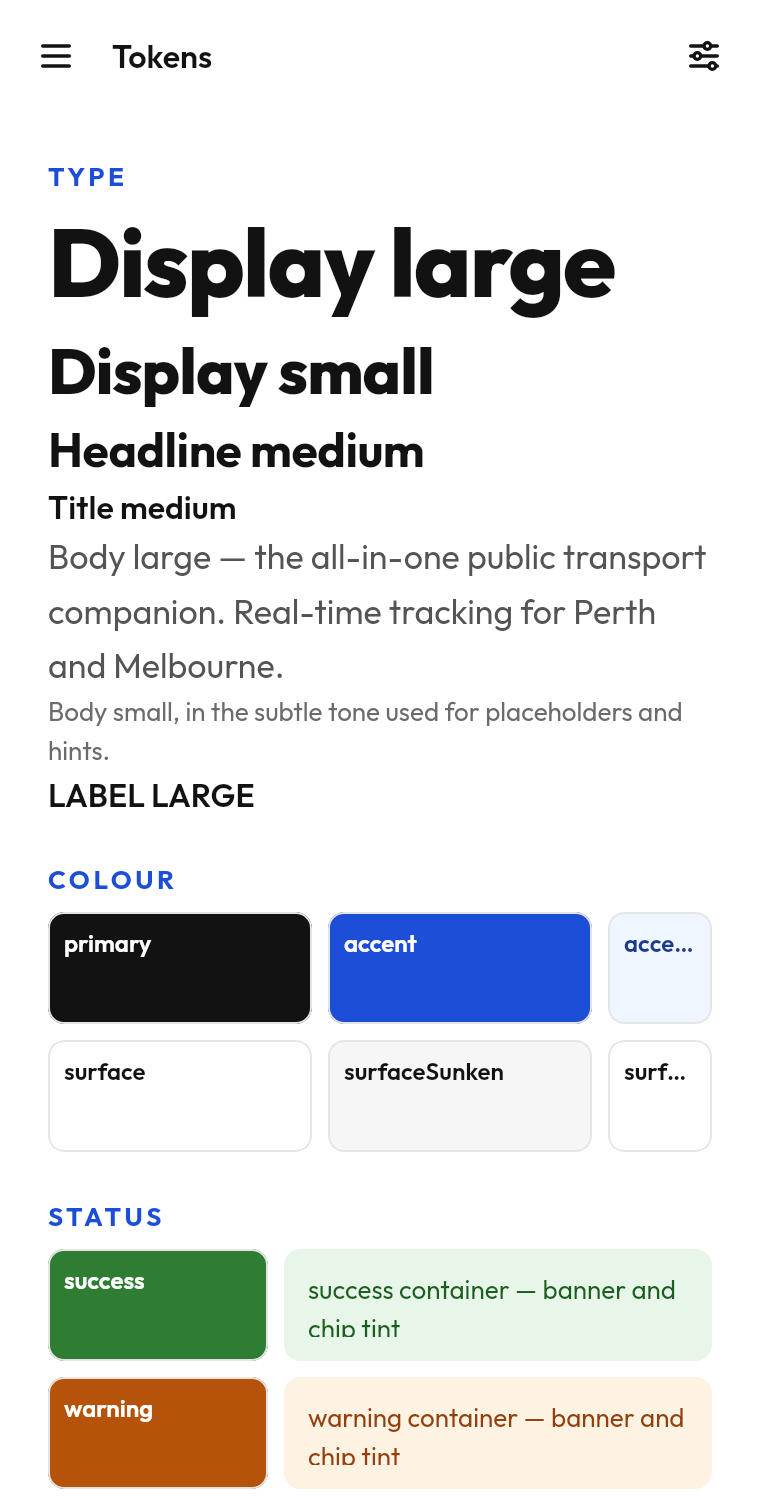
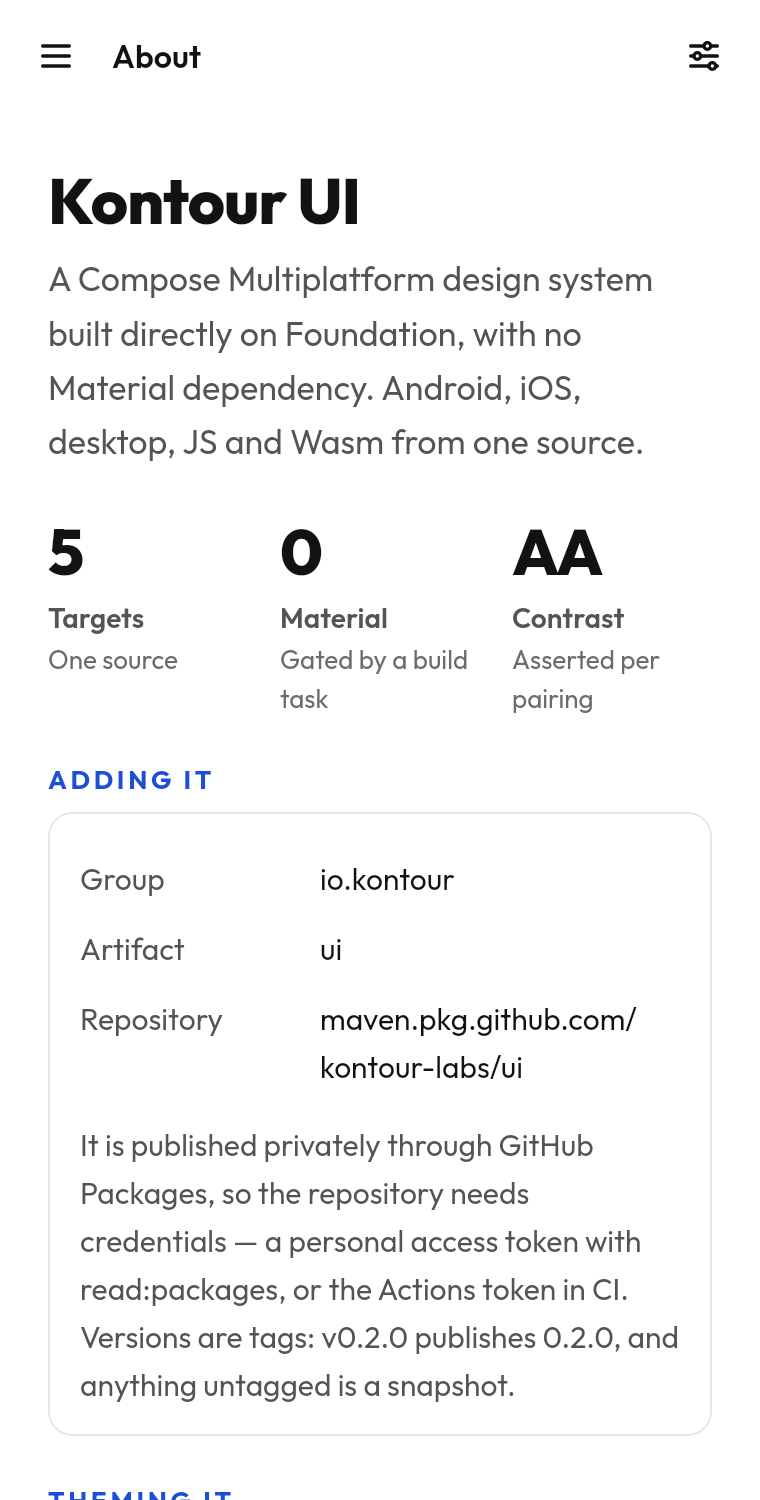
Give the gallery a front door
The catalog opened on a page of colour swatches. That tells someone who has just
been handed the library nothing about what it is, how to add it, or where the
writing lives — a gallery with no front door reads as a test fixture, and for a
while that is all this was.

**About** is now the first page: what the library is, three numbers, the
publishing coordinates and what they need, a theming primer, and the paths to
every documentation page. Paths rather than links, because three of the five
targets have no browser to hand off to and a link that does nothing on iOS is
worse than a path someone can find in the repository.

It is written entirely with shipped components — `Card`, `Stat`, `KeyValueList`,
`Surface`, `Text`, and the `Section` heading every other showcase uses — with no
page-local layout beyond a `Column`. That is the point as much as the content
is: it is the one page whose content is prose rather than specimens, so it is
the one place the system has to work as a *document* rather than as a form.

Two things fell out of writing it. **There is no component for a code block**,
which is why the install section is a `KeyValueList` of coordinates and a
sentence rather than the snippet it wanted to be — a real gap, recorded here
rather than papered over with a page-local `Text` in a monospace style. And the
first draft declared its own `Section`, which the compiler caught as an
ambiguity against the shared one; a page-local copy would have drifted from the
[…]

diff --git a/ui-catalog/src/commonMain/kotlin/io/kontour/ui/catalog/AboutShowcase.kt b/ui-catalog/src/commonMain/kotlin/io/kontour/ui/catalog/AboutShowcase.kt
@@ -1,0 +1,195 @@
+package io.kontour.ui.catalog
+
+import androidx.compose.foundation.layout.Arrangement
+import androidx.compose.foundation.layout.Column
+import androidx.compose.foundation.layout.Row
+import androidx.compose.foundation.layout.fillMaxWidth
+import androidx.compose.foundation.layout.padding
+import androidx.compose.foundation.layout.widthIn
+import androidx.compose.runtime.Composable
+import androidx.compose.ui.Modifier
+import androidx.compose.ui.unit.dp
+import io.kontour.ui.components.display.Card
+import io.kontour.ui.components.display.CardVariant
+import io.kontour.ui.components.display.KeyValueList
+import io.kontour.ui.components.display.Stat
+import io.kontour.ui.foundation.Surface
+import io.kontour.ui.foundation.Text
+import io.kontour.ui.theme.Theme
+
+/**
+ * What this is, before the gallery of what it contains.
+ *
+ * The catalog opened on a page of colour swatches, which tells someone who has
+ * just been handed the library nothing about what it is, how to add it, or where
+ * the writing lives. A gallery with no front door reads as a test fixture, and
+ * for a while that is all this was.
+ *
+ * ### Written with the library, on purpose
+ *
+ * Every element here is a shipped component — `Card`, `Stat`, `KeyValueList`,
+ * `Surface`, `Text` — and no page-local layout beyond a `Column`. It is the one
+ * page whose content is prose rather than specimens, which makes it the one
+ * place the system has to work as a *document* rather than as a form. That is a
+ * real test: the first draft wanted a code block, and the library has no
+ * component for one, which is a genuine gap rather than an oversight in this
+ * page.
+ */
+@Composable
+fun AboutShowcase(modifier: Modifier = Modifier) {
+    Surface(modifier = modifier, color = Theme.colors.background) {
+        Column(
+            modifier = Modifier.padding(Theme.spacing.lg).widthIn(max = 720.dp),
+            verticalArrangement = Arrangement.spacedBy(Theme.spacing.lg),
+        ) {
+            Masthead()
+            Numbers()
+            Install()
+            Theming()
+            Reading()
+        }
+    }
+}
+
+@Composable
+private fun Masthead() {
+    Column(verticalArrangement = Arrangement.spacedBy(Theme.spacing.xs)) {
+        Text("Kontour UI", style = Theme.typography.displaySmall)
+        Text(
+            "A Compose Multiplatform design system built directly on Foundation, " +
+                "with no Material dependency. Android, iOS, desktop, JS and Wasm " +
+                "from one source.",
+            style = Theme.typography.bodyLarge,
+            color = Theme.colors.contentMuted,
+        )
+    }
+}
+
+/**
+ * Three numbers, because they are the three questions asked first.
+ *
+ * `Stat` rather than a sentence: it is the component for a figure someone scans
+ * for, this page is scanned, and using it here is one more place the component
+ * has to hold up outside its own showcase.
+ */
+@Composable
+private fun Numbers() {
+    Row(
+        modifier = Modifier.fillMaxWidth(),
+        horizontalArrangement = Arrangement.spacedBy(Theme.spacing.md),
+    ) {
+        Stat(modifier = Modifier.weight(1f)) {
+            value("5")
+            +"Targets"
+            supporting("One source")
+        }
+        Stat(modifier = Modifier.weight(1f)) {
+            value("0")
+            +"Material"
+            supporting("Gated by a build task")
+        }
+        Stat(modifier = Modifier.weight(1f)) {
+            value("AA")
+            +"Contrast"
+            supporting("Asserted per pairing")
+        }
+    }
+}
+
+@Composable
+private fun Install() {
+    Panel("Adding it") {
+        KeyValueList {
+            item("Group", "io.kontour")
+            item("Artifact", "ui")
+            item("Repository", "maven.pkg.github.com/kontour-labs/ui")
+        }
+        Text(
+            "It is published privately through GitHub Packages, so the repository " +
+                "needs credentials — a personal access token with read:packages, or " +
+                "the Actions token in CI. Versions are tags: v0.2.0 publishes 0.2.0, " +
+                "and anything untagged is a snapshot.",
+            style = Theme.typography.bodyMedium,
+            color = Theme.colors.contentMuted,
+        )
+    }
+}
+
+@Composable
+private fun Theming() {
+    Panel("Theming it") {
+        Text(
+            "Install KontourTheme once at the root. Everything in io.kontour.ui " +
+                "reads its tokens from there and throws outside it — a component " +
+                "silently drawing in the wrong palette is a worse bug than one " +
+                "that refuses to draw.",
+            style = Theme.typography.bodyMedium,
+        )
+        Text(
+            "The default palette is monochrome with one blue accent, and that is " +
+                "deliberate: a library that shipped somebody's brand would make " +
+                "every app using it look like that somebody. Every token group is " +
+                "a parameter, so a product overrides accent, brand and focus ring " +
+                "and inherits the rest. Kontour's own theme is about a hundred " +
+                "lines, most of them colour values.",
+            style = Theme.typography.bodyMedium,
+            color = Theme.colors.contentMuted,
+        )
+        Text(
+            "Dark mode, contrast tier and reduced motion resolve from the " +
+                "operating system and follow it live. The switches in this app's " +
+                "settings sheet override all three, which is how to see a " +
+                "component under a setting you are not running.",
+            style = Theme.typography.bodyMedium,
+            color = Theme.colors.contentMuted,
+        )
+    }
+}
+
+@Composable
+private fun Reading() {
+    Panel("Reading about it") {
+        // Paths rather than links: this app has no browser to hand off to on
+        // three of its five targets, and a link that does nothing on iOS is
+        // worse than a path someone can find in the repository.
+        KeyValueList {
+            item("Components", "docs/using/components.md")
+            item("Tokens", "docs/using/tokens.md")
+            item("Theming", "docs/using/theming.md")
+            item("Accessibility", "docs/using/accessibility.md")
+            item("Slots and +", "docs/using/dsls.md")
+            item("Adding one", "docs/building/contributing.md")
+        }
+        Text(
+            "Every example on those pages is compiled — they live in ui-samples " +
+                "and the pages hold checked copies, so an example that no longer " +
+                "works fails the build rather than being found by whoever pastes it.",
+            style = Theme.typography.bodyMedium,
+            color = Theme.colors.contentMuted,
+        )
+        Text(
+            "The generated API reference lists every public symbol, which the " +
+                "pages above do not attempt: ./gradlew :ui:dokkaGenerateHtml.",
+            style = Theme.typography.bodyMedium,
+            color = Theme.colors.contentMuted,
+        )
+    }
+}
+
+/**
+ * The shared [Section] heading, with this page's content in a card under it.
+ *
+ * Calls the one every other showcase uses rather than declaring a second — a
+ * page-local copy would drift from the rest of the gallery, and the compiler
+ * caught the first draft doing exactly that.
+ */
+@Composable
+private fun Panel(title: String, content: @Composable () -> Unit) {
+    Section(title) {
+        Card(variant = CardVariant.Outlined, modifier = Modifier.fillMaxWidth()) {
+            Column(verticalArrangement = Arrangement.spacedBy(Theme.spacing.sm)) {
+                content()
+            }
+        }
+    }
+}

diff --git a/ui-catalog/src/jvmTest/kotlin/io/kontour/ui/catalog/AboutScreenshotTest.kt b/ui-catalog/src/jvmTest/kotlin/io/kontour/ui/catalog/AboutScreenshotTest.kt
@@ -1,0 +1,39 @@
+package io.kontour.ui.catalog
+
+import androidx.compose.foundation.layout.fillMaxSize
+import androidx.compose.ui.Modifier
+import io.kontour.ui.theme.KontourTheme
+import kotlin.test.AfterTest
+import kotlin.test.Test
+
+/**
+ * The landing page, light and dark.
+ *
+ * It is the only page in the gallery whose content is prose, so it is the only
+ * one where a token change shows up as *text* going wrong — a body colour that
+ * stopped clearing contrast on a card, a heading that lost its hierarchy. The
+ * specimen pages would not catch either.
+ */
+class AboutScreenshotTest {
+
+    @AfterTest
+    fun assertGoldensMatched() = Screenshot.assertAllMatched()
+
+    @Test
+    fun rendersLight() = render(dark = false)
+
+    @Test
+    fun rendersDark() = render(dark = true)
+
+    private fun render(dark: Boolean) {
+        Screenshot.render(
+            name = "about-${if (dark) "dark" else "light"}",
+            width = 1600,
+            height = 2500,
+        ) {
+            KontourTheme(darkTheme = dark, reduceMotion = true) {
+                AboutShowcase(Modifier.fillMaxSize())
+            }
+        }
+    }
+}

diff --git a/ui-catalog/src/commonMain/kotlin/io/kontour/ui/catalog/Catalog.kt b/ui-catalog/src/commonMain/kotlin/io/kontour/ui/catalog/Catalog.kt
@@ -28,6 +28,7 @@ import com.composables.icons.tabler.outline.AdjustmentsHorizontal
 import com.composables.icons.tabler.outline.Calendar
 import com.composables.icons.tabler.outline.Click
 import com.composables.icons.tabler.outline.Forms
+import com.composables.icons.tabler.outline.InfoCircle
 import com.composables.icons.tabler.outline.LayoutBottombar
 import com.composables.icons.tabler.outline.LayoutGrid
 import com.composables.icons.tabler.outline.LayoutList
@@ -70,6 +71,10 @@ private class Page(
 )
 
 private val pages = listOf(
+    // First, and it is a change of purpose rather than of order: a gallery
+    // whose first page is a colour ramp tells someone who has just been
+    // handed the library nothing about what it is or where the writing is.
+    Page("About", Tabler.Outline.InfoCircle) { AboutShowcase(it) },
     Page("Tokens", Tabler.Outline.Palette) { ThemeShowcase(it) },
     Page("Actions", Tabler.Outline.Click) { ButtonShowcase(it) },
     Page("Selection", Tabler.Outline.Forms) { SelectionShowcase(it) },

diff --git a/docs/README.md b/docs/README.md
@@ -142,7 +142,12 @@ repository. What each one asks, and what each has caught, is in
 ## The catalog
 
 `Catalog()` in `:ui-catalog` is every component, in every state, running on all
-five targets from one source. It carries the switches that are hardest to check
+five targets from one source. It opens on **About** — what the library is, how
+to add it, a theming primer and where the writing lives — because a gallery
+whose first page is a colour ramp tells someone who has just been handed the
+library none of that, and reads as a test fixture rather than as documentation.
+That page is also written entirely with shipped components, which makes it the
+one place the system has to work as a document rather than as a form. It carries the switches that are hardest to check
 by eye and easiest to get wrong — dark, high contrast, text size to 200%,
 right-to-left, reduced motion, and a forced input modality — so a component can
 be seen under each without changing a system setting.
